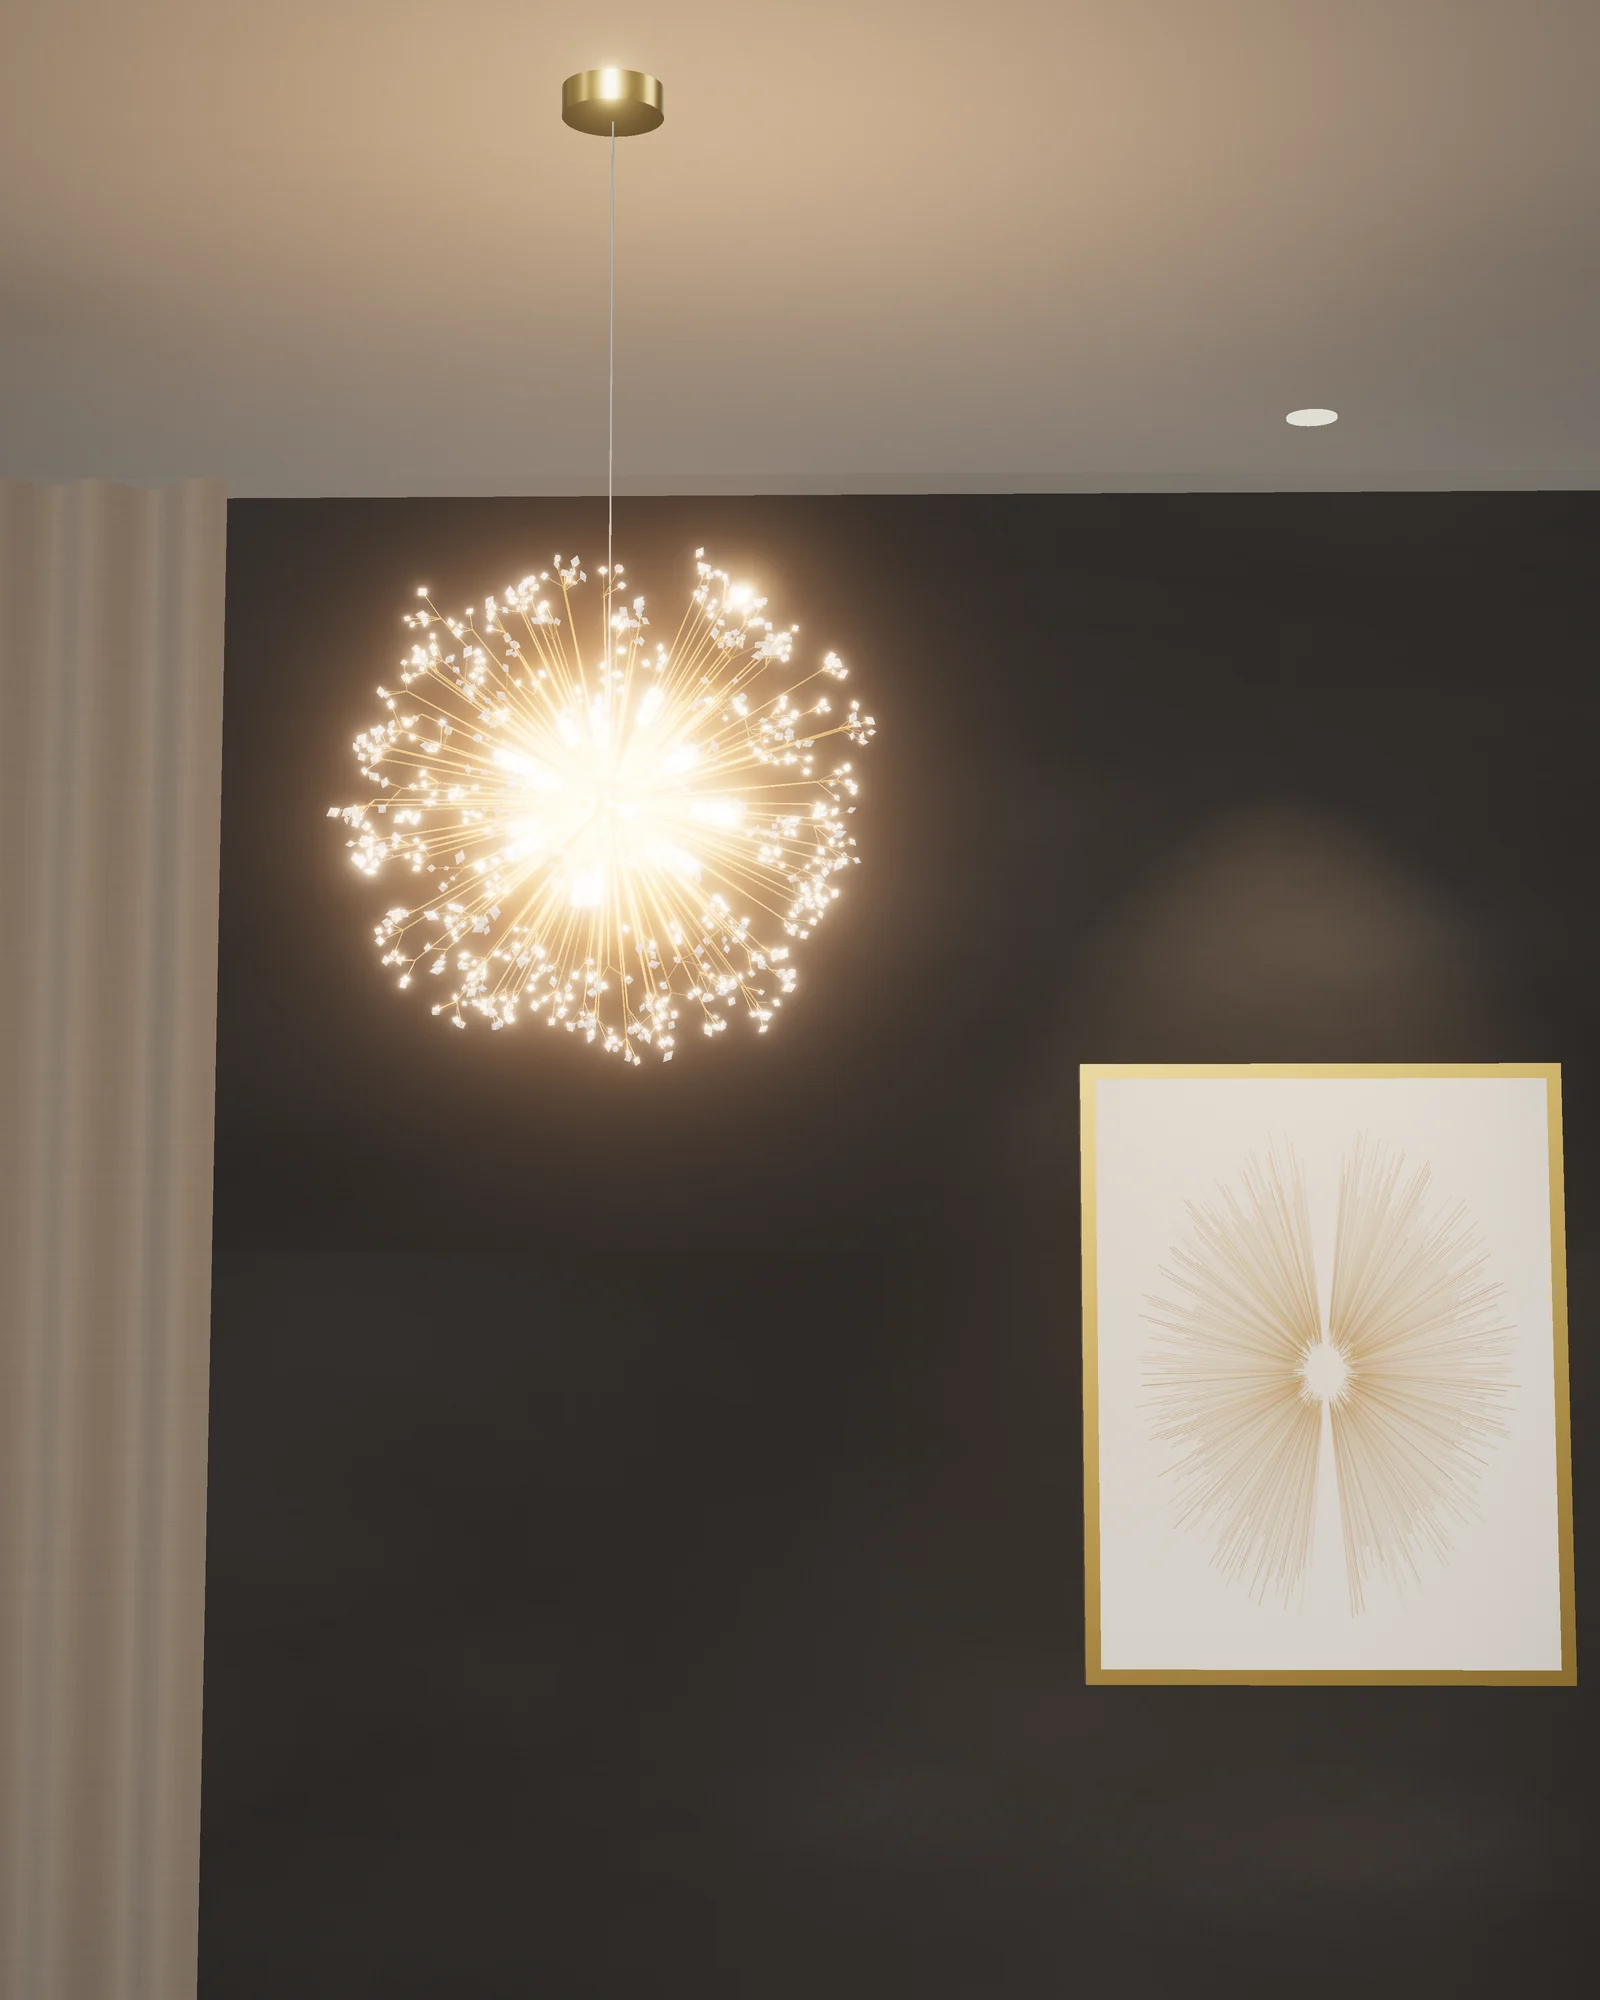
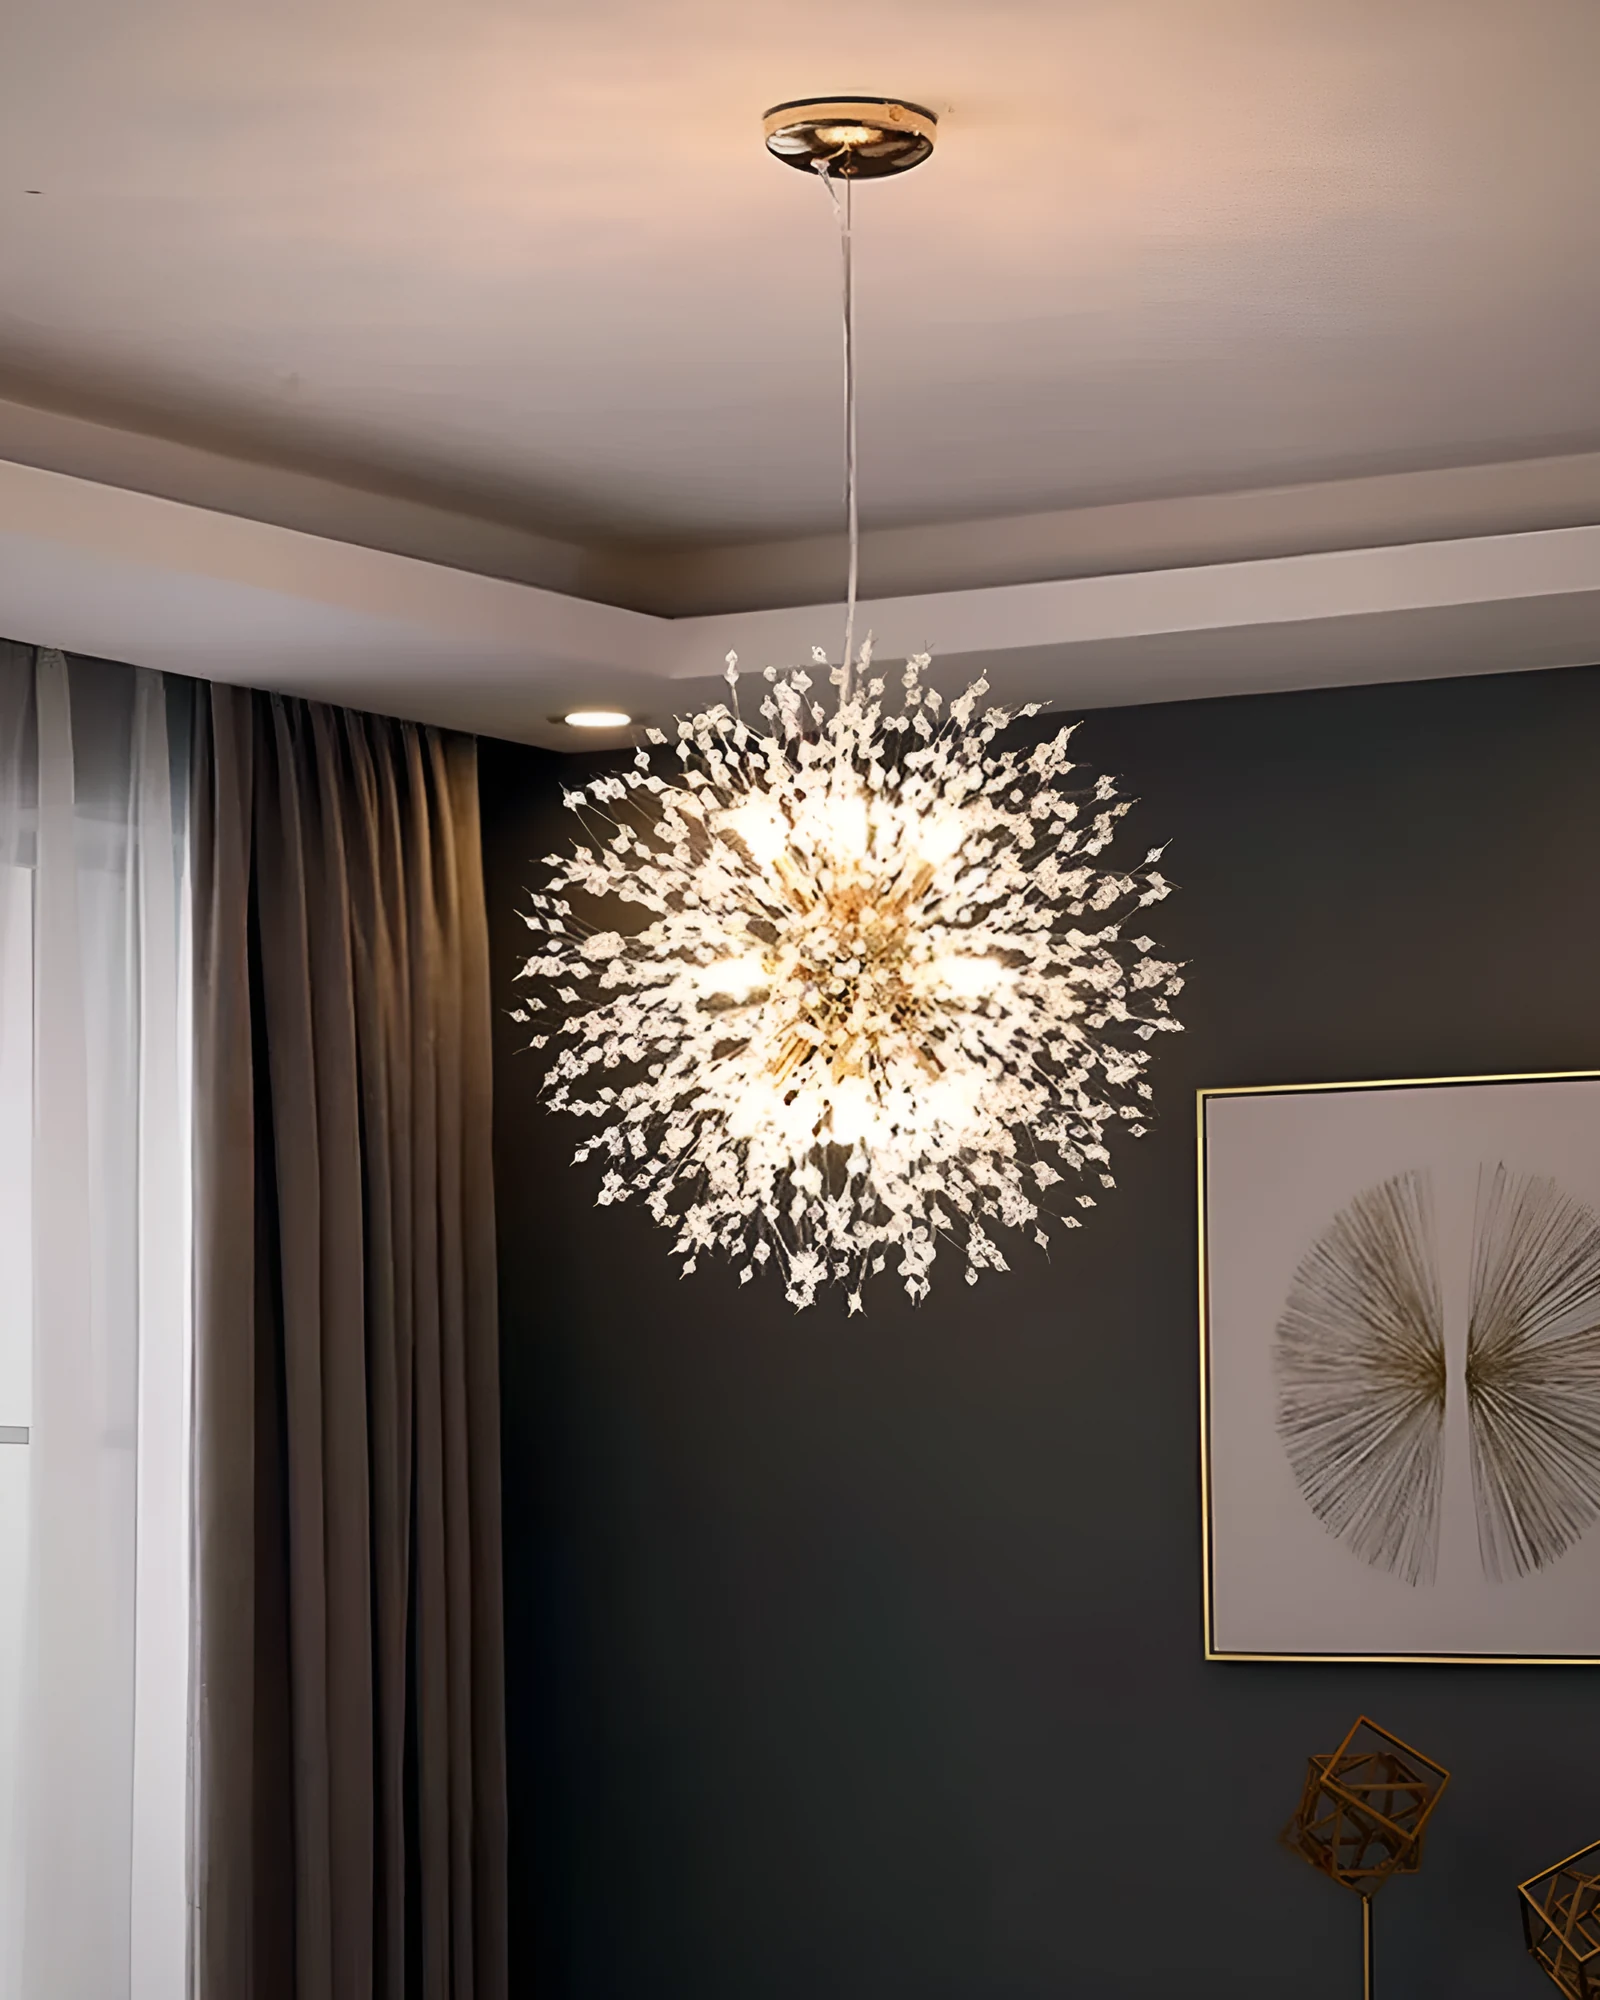
LUMÉANCE : Aigrette — photos réelles rendues plus nettes + deux mises en situation 3D
- Les deux photos d'ambiance du fabricant reviennent en tête de fiche, rendues plus nettes par
  super-résolution (Real-ESRGAN ×2, 1600 × 2000), aux mêmes adresses. Filigrane d'origine
  conservé sur la photo linéaire.
- Mises en situation 3D en 3e et 4e position : salon avec tableau encadré (ronde) et nouvelle
  salle à manger (linéaire) : mur anthracite, lumière rasante, table en noyer, chemin de lin,
  bougeoirs en laiton, vases en céramique, tableau encadré.
- Correctif Supabase 2026-11-01-aigrette-images.sql (remplace « aigrette-visualisations »,
  supprimé) : rétablit les légendes des photos et ajoute les deux images 3D ; testé sur une base
  jetable, avec et sans l'ancien correctif, rejouable sans doublon.
- Test d'import : 13 images attendues.

Claude-Session: https://claude.ai/code/session_01TDDveGhgMVFEChxfsGbcTF

diff --git a/lumeance/scripts/render/scene-aigrette-ambiance.html b/lumeance/scripts/render/scene-aigrette-ambiance.html
@@ -101,37 +101,52 @@ if (ROOM === "salon") {
   scene.add(new THREE.HemisphereLight({ chaud: 0xffe6c6, neutre: 0xfff6ea, froid: 0xeef2ff }[TEMP], 0x1d1814, 0.35));
   const fill = new THREE.DirectionalLight(0xdfe6f0, 0.35); fill.position.set(-3, -1, 1.5); scene.add(fill); // jour par la fenêtre
 } else {
-  // Salle à manger : murs grège, table en chêne, coupe de fruits, vase de verre et branches.
-  const ceilM = mat({ map: plaster("#e9e4dc"), roughness: 0.92 });
+  // Salle à manger, dans l'esprit du salon : mur anthracite, lumière rasante, tableau encadré,
+  // table en noyer avec chemin de lin, coupe, bougeoirs en laiton et vases en céramique mate.
+  const ceilM = mat({ map: plaster("#e4ddd2"), roughness: 0.92 });
   box(10, 0.02, 10, ceilM, 0, 0.01, 0);
-  const wall = new THREE.Mesh(new THREE.PlaneGeometry(10, 3), mat({ map: plaster("#b9aea2", 3, 2), roughness: 0.9 })); wall.position.set(0, -1.3, -2.2); scene.add(wall);
-  const side = new THREE.Mesh(new THREE.PlaneGeometry(10, 3), mat({ map: plaster("#c6bcb1", 3, 2), roughness: 0.9 }));
+  const wall = new THREE.Mesh(new THREE.PlaneGeometry(10, 3), mat({ map: plaster("#3b3836", 3, 2), roughness: 0.9 })); wall.position.set(0, -1.3, -2.2); scene.add(wall);
+  const side = new THREE.Mesh(new THREE.PlaneGeometry(10, 3), mat({ map: plaster("#4a4542", 3, 2), roughness: 0.9 }));
   side.rotation.y = Math.PI / 2; side.position.set(-2.6, -1.3, 0); scene.add(side);
-  box(10, 0.02, 10, mat({ color: 0x8d7a66, roughness: 0.55 }), 0, FLOOR_Y, 0);
+  box(10, 0.02, 10, mat({ color: 0x2b2420, roughness: 0.55 }), 0, FLOOR_Y, 0);
+  // Tableau : deux éventails de traits dorés (écho aux tiges du luminaire), passe-partout ivoire.
+  const art = canvasTex(1024, (x, S) => {
+    x.fillStyle = "#ece6dc"; x.fillRect(0, 0, S, S);
+    for (const [cx, dir] of [[S * 0.47, -1], [S * 0.53, 1]]) {
+      for (let i = 0; i < 260; i++) { const a = (rand() - 0.5) * Math.PI * 0.95, r = 220 + rand() * 170; x.strokeStyle = `rgba(${150 + rand() * 40},${115 + rand() * 30},${60 + rand() * 30},${0.3 + rand() * 0.45})`; x.lineWidth = 0.7 + rand(); x.beginPath(); x.moveTo(cx, S / 2); x.lineTo(cx + dir * Math.cos(a) * r, S / 2 + Math.sin(a) * r); x.stroke(); }
+    }
+  });
+  box(0.84, 0.84, 0.035, mat({ color: 0xc9a45c, metalness: 1, roughness: 0.3 }), 1.25, -1.36, -2.17);
+  const canvasArt = new THREE.Mesh(new THREE.PlaneGeometry(0.79, 0.79), mat({ map: art, roughness: 0.85 })); canvasArt.position.set(1.25, -1.36, -2.15); scene.add(canvasArt);
   const oak = canvasTex(1024, (x, S) => {
-    x.fillStyle = "#9a7652"; x.fillRect(0, 0, S, S);
-    for (let y = 0; y < S; y += 1) { const n = Math.sin(y * 0.05 + Math.sin(y * 0.013) * 4) * 0.5 + 0.5; x.fillStyle = `rgba(${70 + n * 60},${48 + n * 40},${28 + n * 22},${0.12 + rand() * 0.08})`; x.fillRect(0, y, S, 1); }
-    for (let i = 0; i < 400; i++) { x.fillStyle = `rgba(30,18,10,${rand() * 0.15})`; x.fillRect(rand() * S, rand() * S, 40 + rand() * 200, 1); }
+    x.fillStyle = "#6b4a30"; x.fillRect(0, 0, S, S);
+    for (let y = 0; y < S; y += 1) { const n = Math.sin(y * 0.05 + Math.sin(y * 0.013) * 4) * 0.5 + 0.5; x.fillStyle = `rgba(${50 + n * 50},${32 + n * 34},${18 + n * 20},${0.14 + rand() * 0.08})`; x.fillRect(0, y, S, 1); }
+    for (let i = 0; i < 400; i++) { x.fillStyle = `rgba(25,15,8,${rand() * 0.15})`; x.fillRect(rand() * S, rand() * S, 40 + rand() * 200, 1); }
   }, 1, 1);
   const TOP_Y = FLOOR_Y + 0.76;
-  box(2.2, 0.045, 0.95, mat({ map: oak, roughness: 0.5, metalness: 0 }), 0, TOP_Y - 0.0225, -0.05);
+  box(2.2, 0.05, 0.95, mat({ map: oak, roughness: 0.42, metalness: 0 }), 0, TOP_Y - 0.025, -0.05);
   [[-0.98, -0.44], [0.98, -0.44], [-0.98, 0.34], [0.98, 0.34]].forEach(([lx, lz]) => box(0.07, 0.71, 0.07, mat({ map: oak, roughness: 0.5 }), lx, FLOOR_Y + 0.355, lz));
-  // Mise en table sobre : chemin de lin, coupe en céramique mate, deux bougeoirs en laiton.
   const runner = canvasTex(512, (x, S) => { x.fillStyle = "#c9bfb1"; x.fillRect(0, 0, S, S); for (let i = 0; i < S; i += 2) { x.fillStyle = `rgba(90,70,50,${0.03 + rand() * 0.04})`; x.fillRect(0, i, S, 1); x.fillRect(i, 0, 1, S); } }, 6, 1);
   box(1.7, 0.004, 0.36, mat({ map: runner, roughness: 1 }), 0, TOP_Y + 0.002, -0.05);
-  const bowl = new THREE.Mesh(new THREE.LatheGeometry([[0, 0], [0.07, 0], [0.075, 0.012], [0.12, 0.03], [0.17, 0.055], [0.2, 0.072], [0.205, 0.08], [0.198, 0.08], [0.165, 0.062], [0.11, 0.04], [0, 0.03]].map(([r, y]) => new THREE.Vector2(r, y)), 96), mat({ color: 0x3a3632, roughness: 0.7, side: THREE.DoubleSide }));
-  bowl.position.set(-0.05, TOP_Y + 0.004, -0.05); scene.add(bowl);
+  const bowl = new THREE.Mesh(new THREE.LatheGeometry([[0, 0], [0.07, 0], [0.075, 0.012], [0.12, 0.03], [0.17, 0.055], [0.2, 0.072], [0.205, 0.08], [0.198, 0.08], [0.165, 0.062], [0.11, 0.04], [0, 0.03]].map(([r, y]) => new THREE.Vector2(r, y)), 96), mat({ color: 0x1f1d1b, roughness: 0.6, side: THREE.DoubleSide }));
+  bowl.position.set(-0.12, TOP_Y + 0.004, -0.05); scene.add(bowl);
   const brass = mat({ color: 0xc9a45c, metalness: 1, roughness: 0.25 });
-  [[-0.55, 0.26], [0.5, 0.2]].forEach(([cx, h]) => {
+  [[-0.62, 0.26], [-0.48, 0.2]].forEach(([cx, h]) => {
     const stem = new THREE.Mesh(new THREE.LatheGeometry([[0.045, 0], [0.045, 0.01], [0.012, 0.03], [0.01, h - 0.03], [0.022, h - 0.01], [0.022, h]].map(([r, y]) => new THREE.Vector2(r, y)), 48), brass);
     stem.position.set(cx, TOP_Y + 0.004, -0.05); scene.add(stem);
     const candle = new THREE.Mesh(new THREE.CylinderGeometry(0.011, 0.011, 0.22, 24), mat({ color: 0xf1ebe0, roughness: 0.7 }));
     candle.position.set(cx, TOP_Y + 0.004 + h + 0.11, -0.05); scene.add(candle);
   });
-  // Lumière du luminaire sur la table (cône chaud) et jour diffus par la gauche.
-  const pool = new THREE.SpotLight(LIGHT, 1.6, 3, 0.85, 0.9, 1.2); pool.position.set(0, -1.0, 0); pool.target.position.set(0, TOP_Y, 0); scene.add(pool, pool.target);
-  scene.add(new THREE.HemisphereLight(0xfff4e6, 0x6b5a48, 0.5));
-  const day = new THREE.DirectionalLight(0xf3f0ea, 0.9); day.position.set(-3, -0.5, 1.5); scene.add(day);
+  // Vases en céramique mate (sable et terre cuite), groupés à droite.
+  const vase = (pts, color, x, z) => { const v = new THREE.Mesh(new THREE.LatheGeometry(pts.map(([r, y]) => new THREE.Vector2(r, y)), 72), mat({ color, roughness: 0.85, side: THREE.DoubleSide })); v.position.set(x, TOP_Y + 0.004, z); scene.add(v); };
+  vase([[0, 0], [0.06, 0], [0.09, 0.08], [0.1, 0.16], [0.085, 0.24], [0.04, 0.3], [0.035, 0.34], [0.04, 0.35], [0, 0.35]], 0xd8c8b0, 0.42, -0.12);
+  vase([[0, 0], [0.05, 0], [0.075, 0.05], [0.08, 0.12], [0.06, 0.18], [0.03, 0.21], [0.032, 0.23], [0, 0.23]], 0xb4724e, 0.6, 0.02);
+  vase([[0, 0], [0.045, 0], [0.06, 0.06], [0.055, 0.12], [0.03, 0.15], [0, 0.15]], 0x8b8178, 0.72, -0.15);
+  // Lumière : cône chaud du luminaire sur la table, rasants sur le mur, jour discret à gauche.
+  const pool = new THREE.SpotLight(LIGHT, 1.4, 3, 0.85, 0.9, 1.2); pool.position.set(0, -1.0, 0); pool.target.position.set(0, TOP_Y, 0); scene.add(pool, pool.target);
+  [[-0.9, 3], [1.25, 4]].forEach(([wx, I]) => { const w = new THREE.SpotLight(0xffd9a8, I, 5, 0.5, 0.95, 1.4); w.position.set(wx, -0.05, -1.75); w.target.position.set(wx, -1.7, -2.2); scene.add(w, w.target); const dl = new THREE.Mesh(new THREE.CylinderGeometry(0.04, 0.04, 0.005, 32), new THREE.MeshBasicMaterial({ color: 0xfff1dc })); dl.position.set(wx, -0.002, -1.75); scene.add(dl); });
+  scene.add(new THREE.HemisphereLight({ chaud: 0xffe6c6, neutre: 0xfff6ea, froid: 0xeef2ff }[TEMP], 0x1d1814, 0.4));
+  const day = new THREE.DirectionalLight(0xdfe6f0, 0.45); day.position.set(-3, -0.5, 1.5); scene.add(day);
 }
 
 // ── Caméra ──

diff --git a/lumeance/lib/catalog/products.ts b/lumeance/lib/catalog/products.ts
@@ -654,18 +654,34 @@ export const CATALOG_PRODUCTS: Product[] = [
       {
         id: "aigrette-1",
         url: "/products/aigrette/ambiance-ronde.webp",
-        alt: "Visualisation 3D de la suspension Aigrette ronde Ø60 cm dorée, allumée en blanc chaud dans un salon au mur anthracite, rideau de lin et tableau encadré",
-        caption: "Visualisation 3D — mise en situation",
+        alt: "Suspension Aigrette ronde dorée, boule de tiges perlées de cristal allumée dans un salon aux murs gris",
+        caption: "Photographie d’ambiance du fabricant",
         isPrimary: true,
         position: 0,
       },
       {
         id: "aigrette-2",
         url: "/products/aigrette/ambiance-lineaire.webp",
-        alt: "Visualisation 3D de la suspension Aigrette linéaire 92 cm dorée, allumée en blanc chaud au-dessus d’une table de salle à manger en chêne",
-        caption: "Visualisation 3D — mise en situation",
+        alt: "Suspension Aigrette linéaire dorée au-dessus d’une table de salle à manger en bois",
+        caption: "Photographie d’ambiance du fabricant",
         isPrimary: false,
         position: 1,
+      },
+      {
+        id: "aigrette-3",
+        url: "/products/aigrette/mise-en-scene-ronde.webp",
+        alt: "Visualisation 3D de la suspension Aigrette ronde Ø60 cm dorée, allumée en blanc chaud dans un salon au mur anthracite, rideau de lin et tableau encadré",
+        caption: "Visualisation 3D — mise en situation",
+        isPrimary: false,
+        position: 2,
+      },
+      {
+        id: "aigrette-4",
+        url: "/products/aigrette/mise-en-scene-lineaire.webp",
+        alt: "Visualisation 3D de la suspension Aigrette linéaire 92 cm dorée, allumée en blanc chaud au-dessus d’une table en noyer, devant un mur anthracite et un tableau encadré",
+        caption: "Visualisation 3D — mise en situation",
+        isPrimary: false,
+        position: 3,
       },
     ],
     variants: AIGRETTE_VARIANTS,
